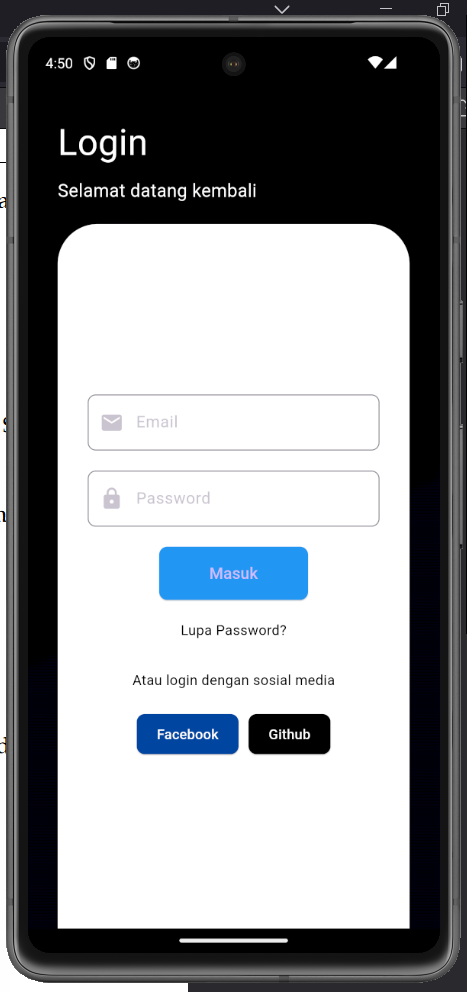
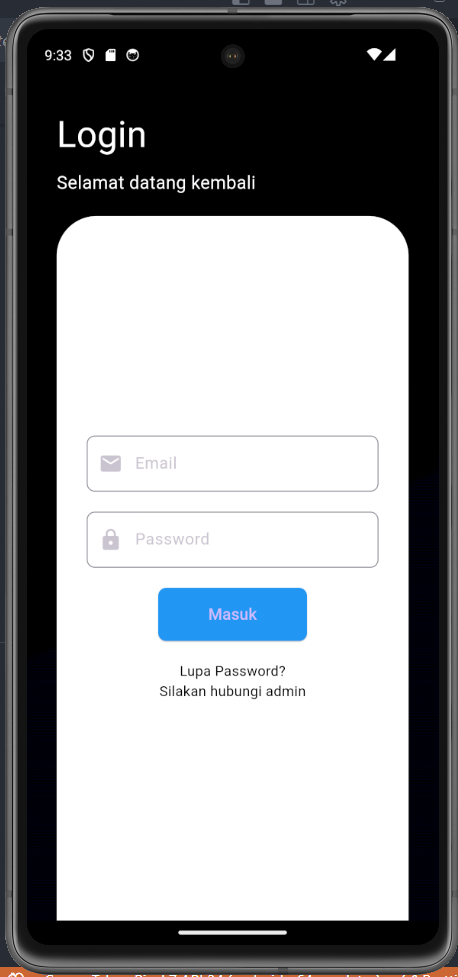
perubahan button

Changed region(s): [[0.0, 0.0, 1.0, 1.0], [0.1834, 0.3992, 0.8253, 0.7677]]

diff --git a/lib/screens/login_screen.dart b/lib/screens/login_screen.dart
@@ -92,6 +92,7 @@ class _LoginScreenState extends State<LoginScreen> {
                       // Input Username
                       TextFormField(
                         controller: _usernameController,
+                        style: const TextStyle(color: Colors.black),
                         decoration: InputDecoration(
                           labelText: "Email",
                           prefixIcon: const Icon(Icons.email),
@@ -114,6 +115,7 @@ class _LoginScreenState extends State<LoginScreen> {
                       // Input Password
                       TextFormField(
                         controller: _passwordController,
+                        style: const TextStyle(color: Colors.black),
                         obscureText: true,
                         decoration: InputDecoration(
                           labelText: "Password",
@@ -151,58 +153,15 @@ class _LoginScreenState extends State<LoginScreen> {
                       ),
                       const SizedBox(height: 20),
 
-                      // Lupa Password dan Sosial Media
+                      // Lupa Password
                       const Text(
                         "Lupa Password?",
                         style: TextStyle(color: Colors.black),
                       ),
-                      const SizedBox(height: 30),
+                      // Lupa Password
                       const Text(
-                        "Atau login dengan sosial media",
+                        "Silakan hubungi admin",
                         style: TextStyle(color: Colors.black),
-                      ),
-                      const SizedBox(height: 20),
-                      Row(
-                        mainAxisAlignment: MainAxisAlignment.center,
-                        children: [
-                          // Facebook Button
-                          ElevatedButton(
-                            style: ElevatedButton.styleFrom(
-                              backgroundColor: Colors.blue[900],
-                              padding: const EdgeInsets.symmetric(
-                                horizontal: 20,
-                                vertical: 10,
-                              ),
-                              shape: RoundedRectangleBorder(
-                                borderRadius: BorderRadius.circular(8),
-                              ),
-                            ),
-                            onPressed: () {},
-                            child: const Text(
-                              "Facebook",
-                              style: TextStyle(color: Colors.white),
-                            ),
-                          ),
-                          const SizedBox(width: 10),
-                          // Github Button
-                          ElevatedButton(
-                            style: ElevatedButton.styleFrom(
-                              backgroundColor: Colors.black,
-                              padding: const EdgeInsets.symmetric(
-                                horizontal: 20,
-                                vertical: 10,
-                              ),
-                              shape: RoundedRectangleBorder(
-                                borderRadius: BorderRadius.circular(8),
-                              ),
-                            ),
-                            onPressed: () {},
-                            child: const Text(
-                              "Github",
-                              style: TextStyle(color: Colors.white),
-                            ),
-                          ),
-                        ],
                       ),
                     ],
                   ),
